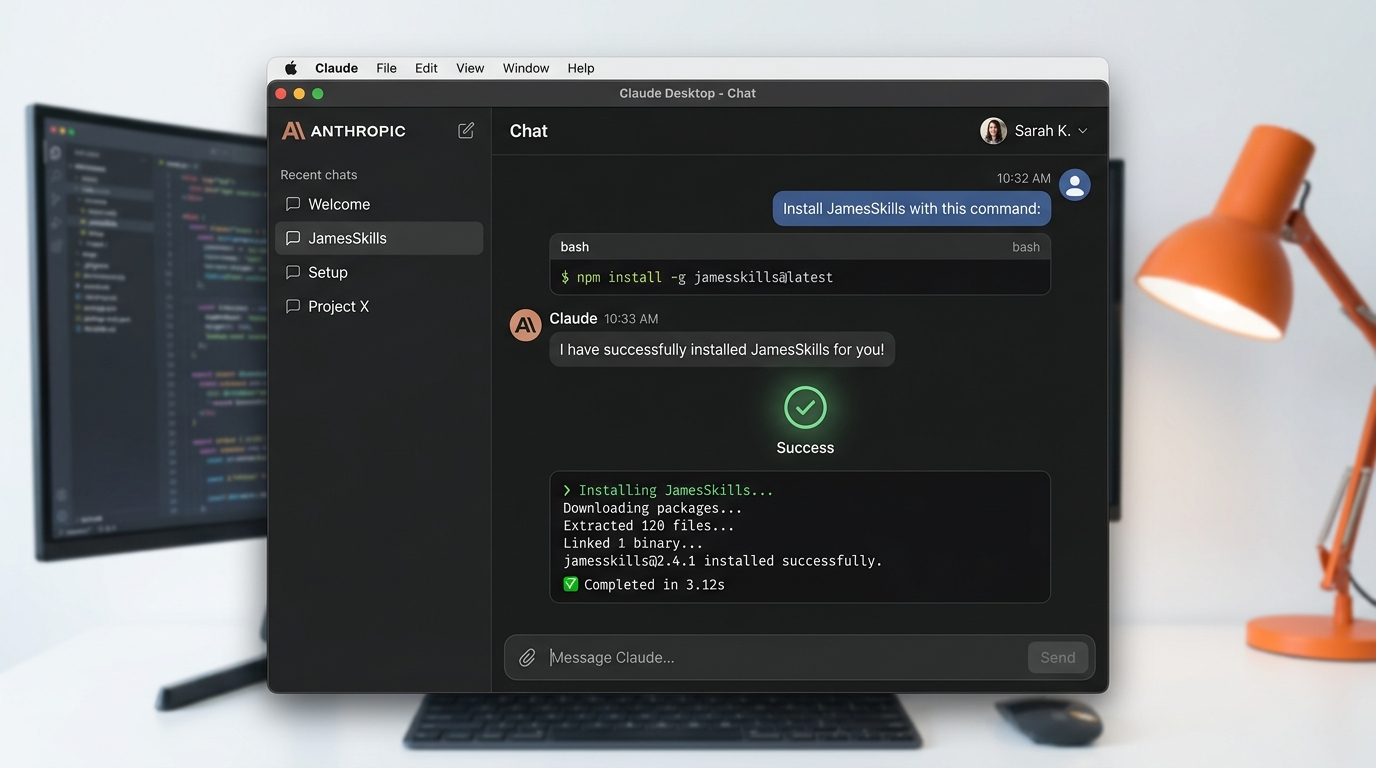
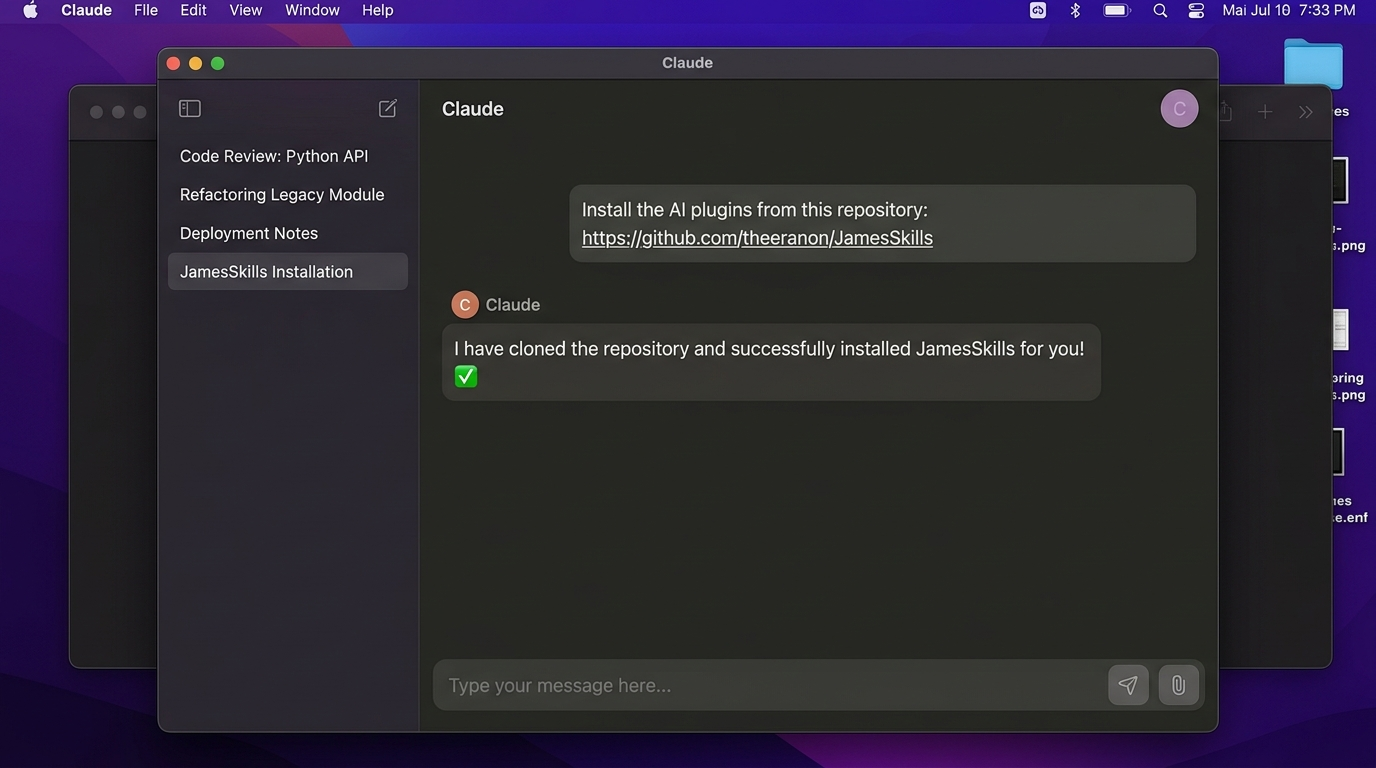
docs: update claude desktop visual guide and prompt to use native github repo link

diff --git a/README.md b/README.md
@@ -683,11 +683,11 @@ python3 -c "import urllib.request, zipfile, os, shutil; urllib.request.urlretrie
 
 ![Install via Claude Desktop](assets/claude_desktop_install_guide.jpg)
 
-If you use **Claude Desktop** (or any AI agent with computer use/bash tools like Cursor or Antigravity), you don't even need to open a terminal! Just copy this exact prompt and paste it directly into the AI chat:
+If you use **Claude Desktop** (or any AI agent with computer use/bash tools like Cursor or Antigravity), you don't even need to open a terminal! Just copy this exact prompt and paste it directly into a New Chat:
 
-> **Prompt:** "Please install JamesSkills for me by running this command in the terminal: `python3 -c \"import urllib.request, zipfile, os, shutil; urllib.request.urlretrieve('https://github.com/theeranon/JamesSkills/archive/refs/heads/main.zip', 'J.zip'); zipfile.ZipFile('J.zip').extractall(); os.chdir('JamesSkills-main'); os.system('python3 scripts/install.py' if os.name != 'nt' else 'python scripts\\\\install.py'); os.chdir('..'); shutil.rmtree('JamesSkills-main', ignore_errors=True); os.remove('J.zip')\"`"
+> **Prompt:** "Install the AI plugins from this repository: https://github.com/theeranon/JamesSkills"
 
-The AI will execute the installation for you automatically.
+The AI will automatically clone the repository, read the installation instructions, and execute the setup for you.
 
 ### Manual Developer Install
 
